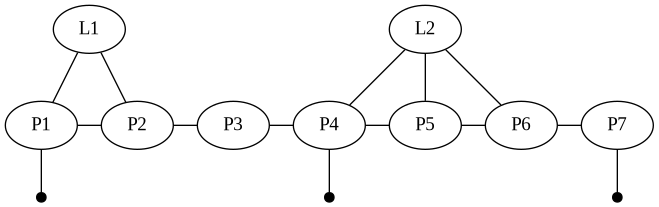
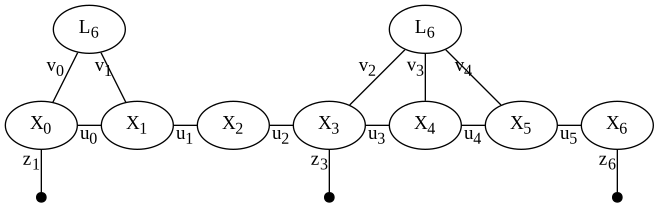
Added Section II.B to paper

diff --git a/paper/Conference_Paper.tex b/paper/Conference_Paper.tex
@@ -29,6 +29,7 @@
 %\usepackage{times} % assumes new font selection scheme installed
 %\usepackage{amsmath} % assumes amsmath package installed
 %\usepackage{amssymb}  % assumes amsmath package installed
+\usepackage{amsfonts}
 
 \title{\LARGE \bf
 Improving Vehicle Localization in Urban Canyons using SLAM and Semantic Point Cloud Registration
@@ -70,7 +71,16 @@ Map Data Processing Placeholder
 
 \subsection{Simultaneous Localization and Mapping}
 
-SLAM data processing placeholder
+In order to generate an initial trajectory estimate and local map of observed landmarks, we utilize a factor graph based SLAM method <REFERENCE>.
+The variables in our factor graph consist of vehicle poses $X_t \in \marthrm{SE}(2)$ and landmark positions $L_n \in \mathbb{R}^2$.
+Our vehicle data provides longitudinal velocity and yaw rate which can be combined into odometry factors $u_t \in \mathfrak{se}(2)$ between poses $X_t$ and $X_{t+1}$.
+The GPS measurements $z_t \in \mathbb{R}^2$ are used as prior factors on the translational component of the current vehicle pose $X_t$ at the time that the measurement is obtained. Due to the difference in sampling rate of odometry and GPS data, not all poses will have an associated prior factor.
+Each landmark observation consists of a landmark identifier $n$ and a distance to the landmark $v_i \in \mathbb{R}^2$ relative to the vehicle frame which is added as a factor between the pose $X_t$ at the time the measurement is obtained and the landmark location $L_n$.
+An example simplified factor graph is shown in <FIGURE>.
+
+Variables and factors are added to the graph iteratively as new measurements become available.
+To solve the factor graph we make use of the ISAM2 algorithm <REFERENCE> which internally converts the factor graph into a Bayes tree before optimizing. This approach allows for fast updates to variable estimates when adding new factors to the graph without the need for periodic batch relinearization or reordering.
+Our final local map is the set of points of the best estimates of $L_n$ along with their semantic classes.
 
 \subsection{Semantic Point Cloud Registration}
 The odometry information used in the SLAM algorithm accumulates error over time. Without proper handling, this can cause the estimated trajectory to diverge from the true trajectory. The routine GPS signals received by the vehicle help to correct this (often they can give an acceptable level of localization by themselves), but these are also prone to error in certain circumstance, as discussed. This problem was alleviated by using a Semantic Iterative Closet Point (SICP) auces a transformation from the estimated, locally observed landmark locations to the known, global locations. This transformation can then be applied to the estimated vehicle trajectory to improve the accuracy of the estimate. 
